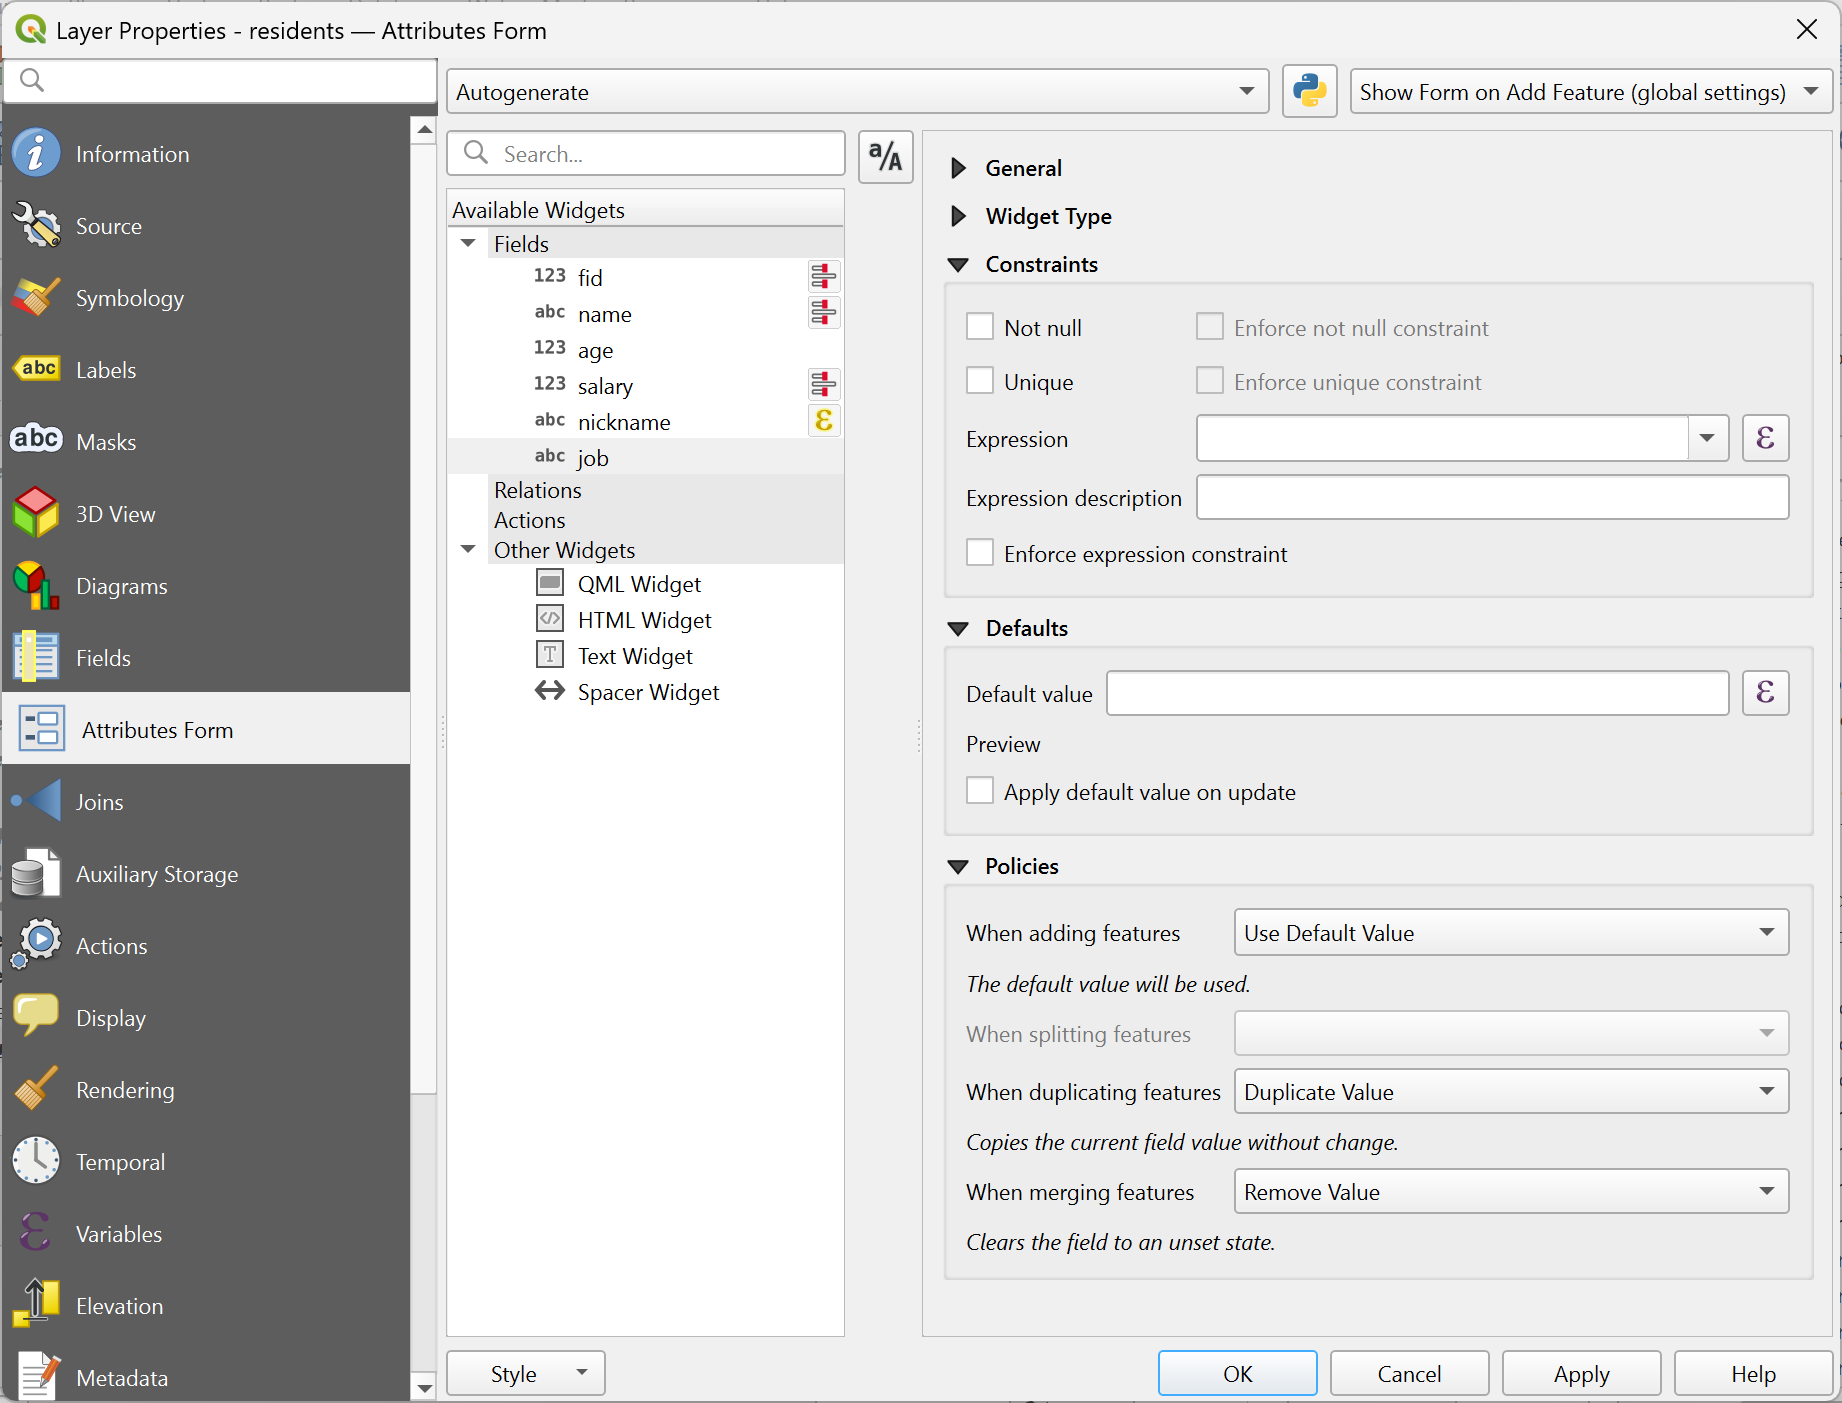
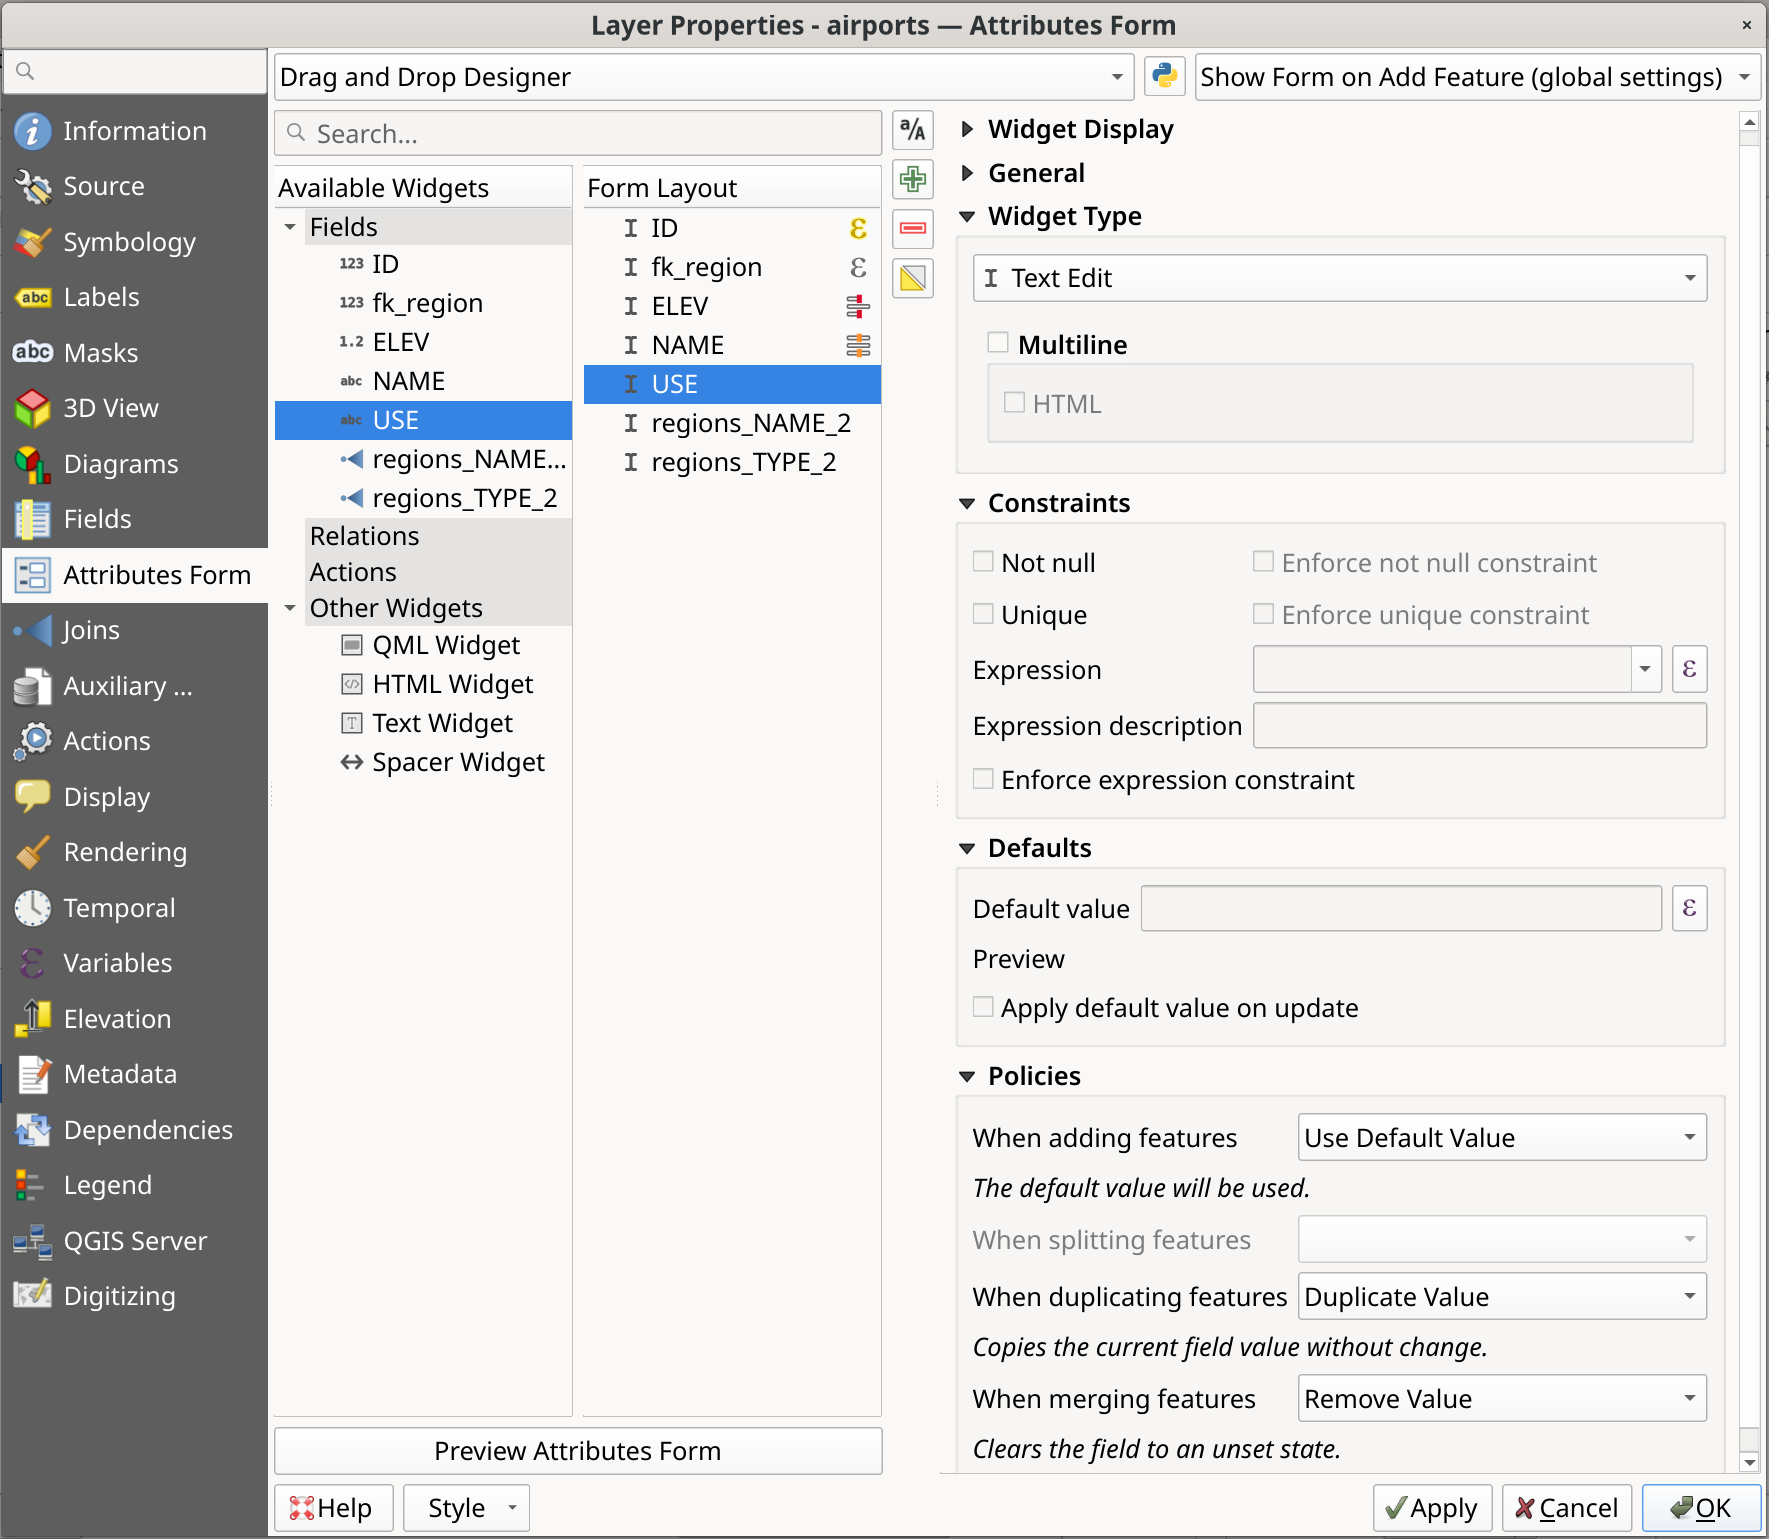
Fixes and suggestions

Changed region(s): [[0.0, 0.0, 1.0, 1.0], [0.9327, 0.5823, 0.9638, 0.613]]

diff --git a/docs/user_manual/working_with_vector/vector_properties.rst b/docs/user_manual/working_with_vector/vector_properties.rst
@@ -2381,17 +2381,19 @@ in light gray to help identify them easily.
 
    Search fields using aliases and names in Attributes Form page
 
-At the bottom of the dialog, the :guilabel:`Preview Attributes Form` panel shows a live
-preview of the form being designed and lets you edit it without requiring the
-vector layer to be in editing mode.
+At the bottom of the dialog, the :guilabel:`Preview Attributes Form` button allows you to preview the attributes form,
+reducing the need to switch back and forth between the |formView| :guilabel:`Attributes Form` dialog
+and the feature :ref:`form view <attribute_table_view>`.
+The preview uses a temporary empty feature, letting you interact with widgets and layout,
+and does not affect any real data.
 
-.. _figure_preview_attributes_form:
+.. _figure_attributes_form_properties:
 
-.. figure:: img/preview_attributes_form.png
+.. figure:: img/attributes_form_properties.png
    :align: center
-   :width: 50%
+   :width: 70%
 
-   Preview Attributes Form panel
+   Attributes Form properties dialog
 
 The autogenerated form
 ......................
@@ -2635,6 +2637,7 @@ and the values or range of values that are allowed to be added to each.
 
 .. figure:: img/edit_widgets_dialog.png
    :align: center
+   :width: 70%
 
    Dialog to select an edit widget for an attribute column
 
